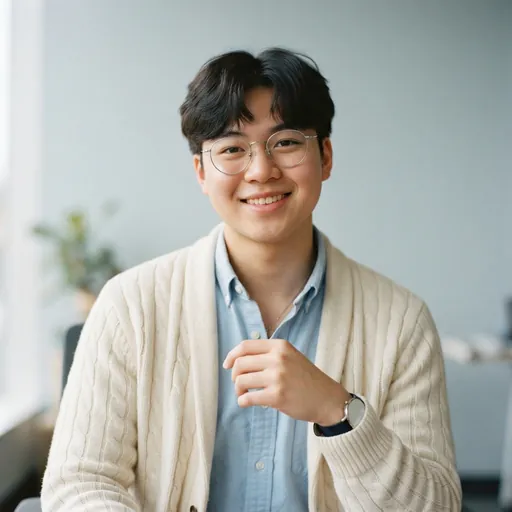
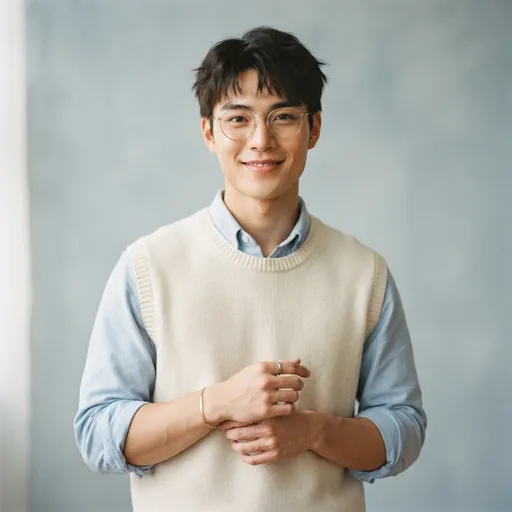
Giữ 3 nhân vật nam bản 1 (Kevin, Minh, Tom), 4 nhân vật nữ bản 2 [skip ci]
Claude-Session: https://claude.ai/code/session_018HVPnLa6xCguYk66K57zua

diff --git a/tools/image-list.py b/tools/image-list.py
@@ -7,12 +7,12 @@ STYLE = ("Photorealistic editorial photograph, natural soft daylight, real adult
 PORTRAIT = "Chest-up portrait, looking at the camera with a natural smile, plain soft blue-grey studio background, 50mm lens. "
 CHARS = {
   "char-an": "An, a pretty Vietnamese young woman, looks like a 19-year-old university student who just started an office internship, very youthful fresh baby face, soft rounded cheeks, smooth glowing skin, minimal light makeup, oval face, long straight black hair with a center part and wispy see-through bangs. Style: clean-girl minimal chic, ivory ribbed knit top, light beige wide-leg trousers, thin gold necklace, small pearl studs. Bright airy natural light, plain soft pastel background, candid relaxed pose. Trendy Gen Z look. An original fictional character with a unique face, not resembling any real person or celebrity.",
-  "char-tom": "Tom, a friendly British young man, looks like a 19-year-old university student who just started an office internship, very youthful fresh face, light freckles, fluffy curly ginger hair. Style: indie casual, light-wash denim jacket over a forest green knit sweater, cheerful boyish smile. Bright airy natural light, plain soft pastel background, candid relaxed pose. Trendy Gen Z look. An original fictional character with a unique face, not resembling any real person or celebrity.",
-  "char-kevin": "Kevin, a handsome Asian-American young man, looks like a 19-year-old university student who just started an office internship, very youthful fresh baby face, soft rounded cheeks, smooth glowing skin, minimal light makeup, slim face, soft fluffy comma-hair fringe, thin round silver glasses. Style: preppy campus, light blue oxford shirt under a cream cable-knit cardigan, white sneakers, gentle smile. Bright airy natural light, plain soft pastel background, candid relaxed pose. Trendy Gen Z look. An original fictional character with a unique face, not resembling any real person or celebrity.",
+  "char-tom": "Tom, a handsome young British man about 20 years old, tall and slim, clean jawline, clear bright eyes, soft tousled ginger hair, light freckles, sage green cable-knit sweater over a white T-shirt collar, easygoing cheerful smile. Youthful, fresh and soft, trendy Gen Z office style mixed with quiet-luxury old money taste: light airy neutral palette, relaxed tailored fit, minimal delicate accessories, glowing natural makeup, gentle sweet expression. Bright airy natural light, soft creamy background. An original fictional character with a unique face, not resembling any real person or celebrity.",
+  "char-kevin": "Kevin, a handsome young Asian-American man about 20 years old, modern C-drama leading-man look: tall and slim, clean soft jawline, defined natural brows, clear bright eyes, smooth clear skin, gentle refined aura, soft textured dark hair with a light fringe, thin gold-rim round glasses, light blue oxford shirt under a cream knit sweater vest, sleeves casually rolled. Youthful, fresh and soft, trendy Gen Z office style mixed with quiet-luxury old money taste: light airy neutral palette, relaxed tailored fit, minimal delicate accessories, glowing natural makeup, gentle sweet expression. Bright airy natural light, soft creamy background. An original fictional character with a unique face, not resembling any real person or celebrity.",
   "char-linh": "Linh, a sweet Vietnamese young woman, looks like a 19-year-old university student who just started an office internship, very youthful fresh baby face, soft rounded cheeks, smooth glowing skin, minimal light makeup, heart-shaped face with dimples, shoulder-length soft wavy dark-brown hair with curtain bangs and a small yellow ribbon. Style: Korean soft girl, butter-yellow puff-sleeve blouse with a white Peter Pan collar, tiny daisy earrings, shy warm smile. Bright airy natural light, plain soft pastel background, candid relaxed pose. Trendy Gen Z look. An original fictional character with a unique face, not resembling any real person or celebrity.",
   "char-sarah": "Sarah Lee, a Korean-American businesswoman about 38, black bob haircut, charcoal blazer over a white shirt, confident.",
   "char-wangli": "Wang Li, a cute Chinese young woman, looks like a 19-year-old university student who just started an office internship, very youthful fresh baby face, soft rounded cheeks, smooth glowing skin, minimal light makeup, round face with big sparkling eyes, chin-length glossy black bob with blunt full bangs. Style: sporty street chic, cherry-red cropped varsity jacket over a white tee, silver hoop earrings, playful wide grin. Bright airy natural light, plain soft pastel background, candid relaxed pose. Trendy Gen Z look. An original fictional character with a unique face, not resembling any real person or celebrity.",
-  "char-minh": "Minh, a handsome Vietnamese young man, looks like a 19-year-old university student who just started an office internship, very youthful fresh baby face, soft rounded cheeks, smooth glowing skin, minimal light makeup, warm tan skin, short two-block haircut with a messy textured top. Style: relaxed Gen Z streetwear, oversized sage green overshirt over a plain white tee, thin silver chain, black cap held in one hand, easy laid-back grin. Bright airy natural light, plain soft pastel background, candid relaxed pose. Trendy Gen Z look. An original fictional character with a unique face, not resembling any real person or celebrity.",
+  "char-minh": "Minh, a handsome young Vietnamese man about 20 years old, modern C-drama leading-man look: tall and slim, clean soft jawline, defined natural brows, clear bright eyes, smooth clear skin, gentle refined aura, soft textured black hair with a natural fringe, relaxed sage green linen shirt with the top button open, beige trousers, friendly easy smile. Youthful, fresh and soft, trendy Gen Z office style mixed with quiet-luxury old money taste: light airy neutral palette, relaxed tailored fit, minimal delicate accessories, glowing natural makeup, gentle sweet expression. Bright airy natural light, soft creamy background. An original fictional character with a unique face, not resembling any real person or celebrity.",
   "char-wangjl": "Manager Wang, a Chinese businessman about 50, short greying hair, dark navy suit, red tie, rimless glasses, polite and warm.",
 }
 SCENES = {
